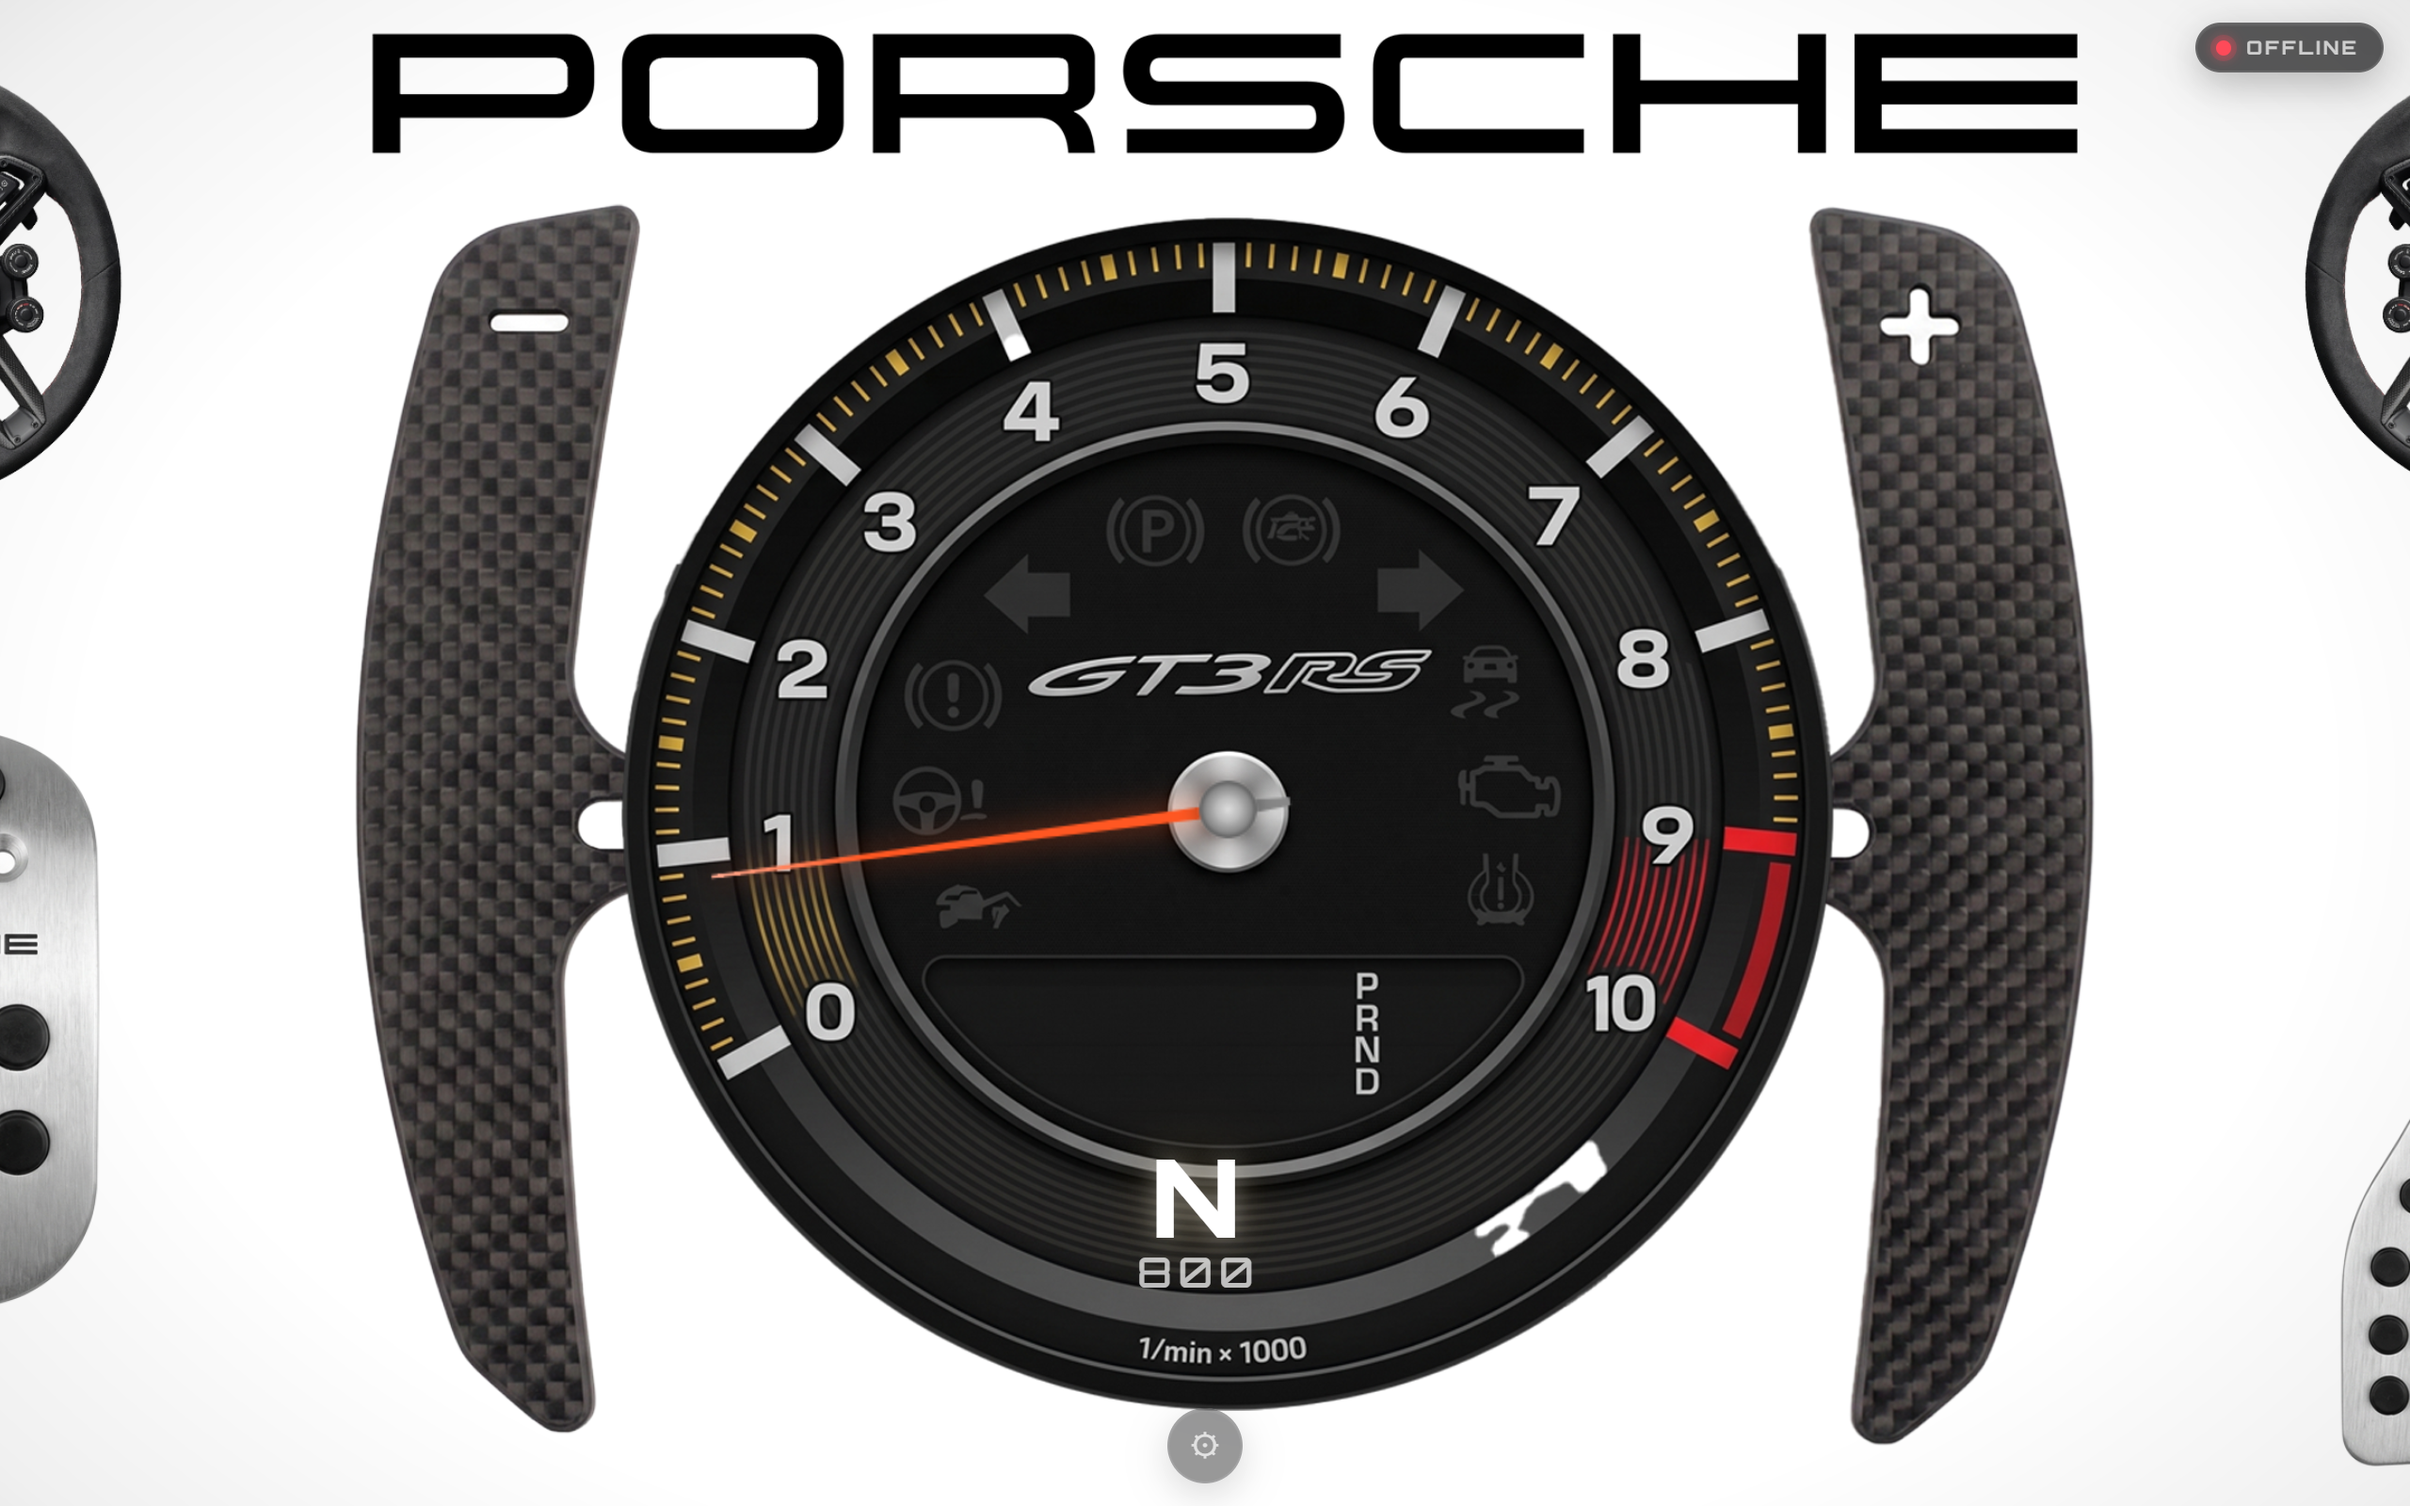
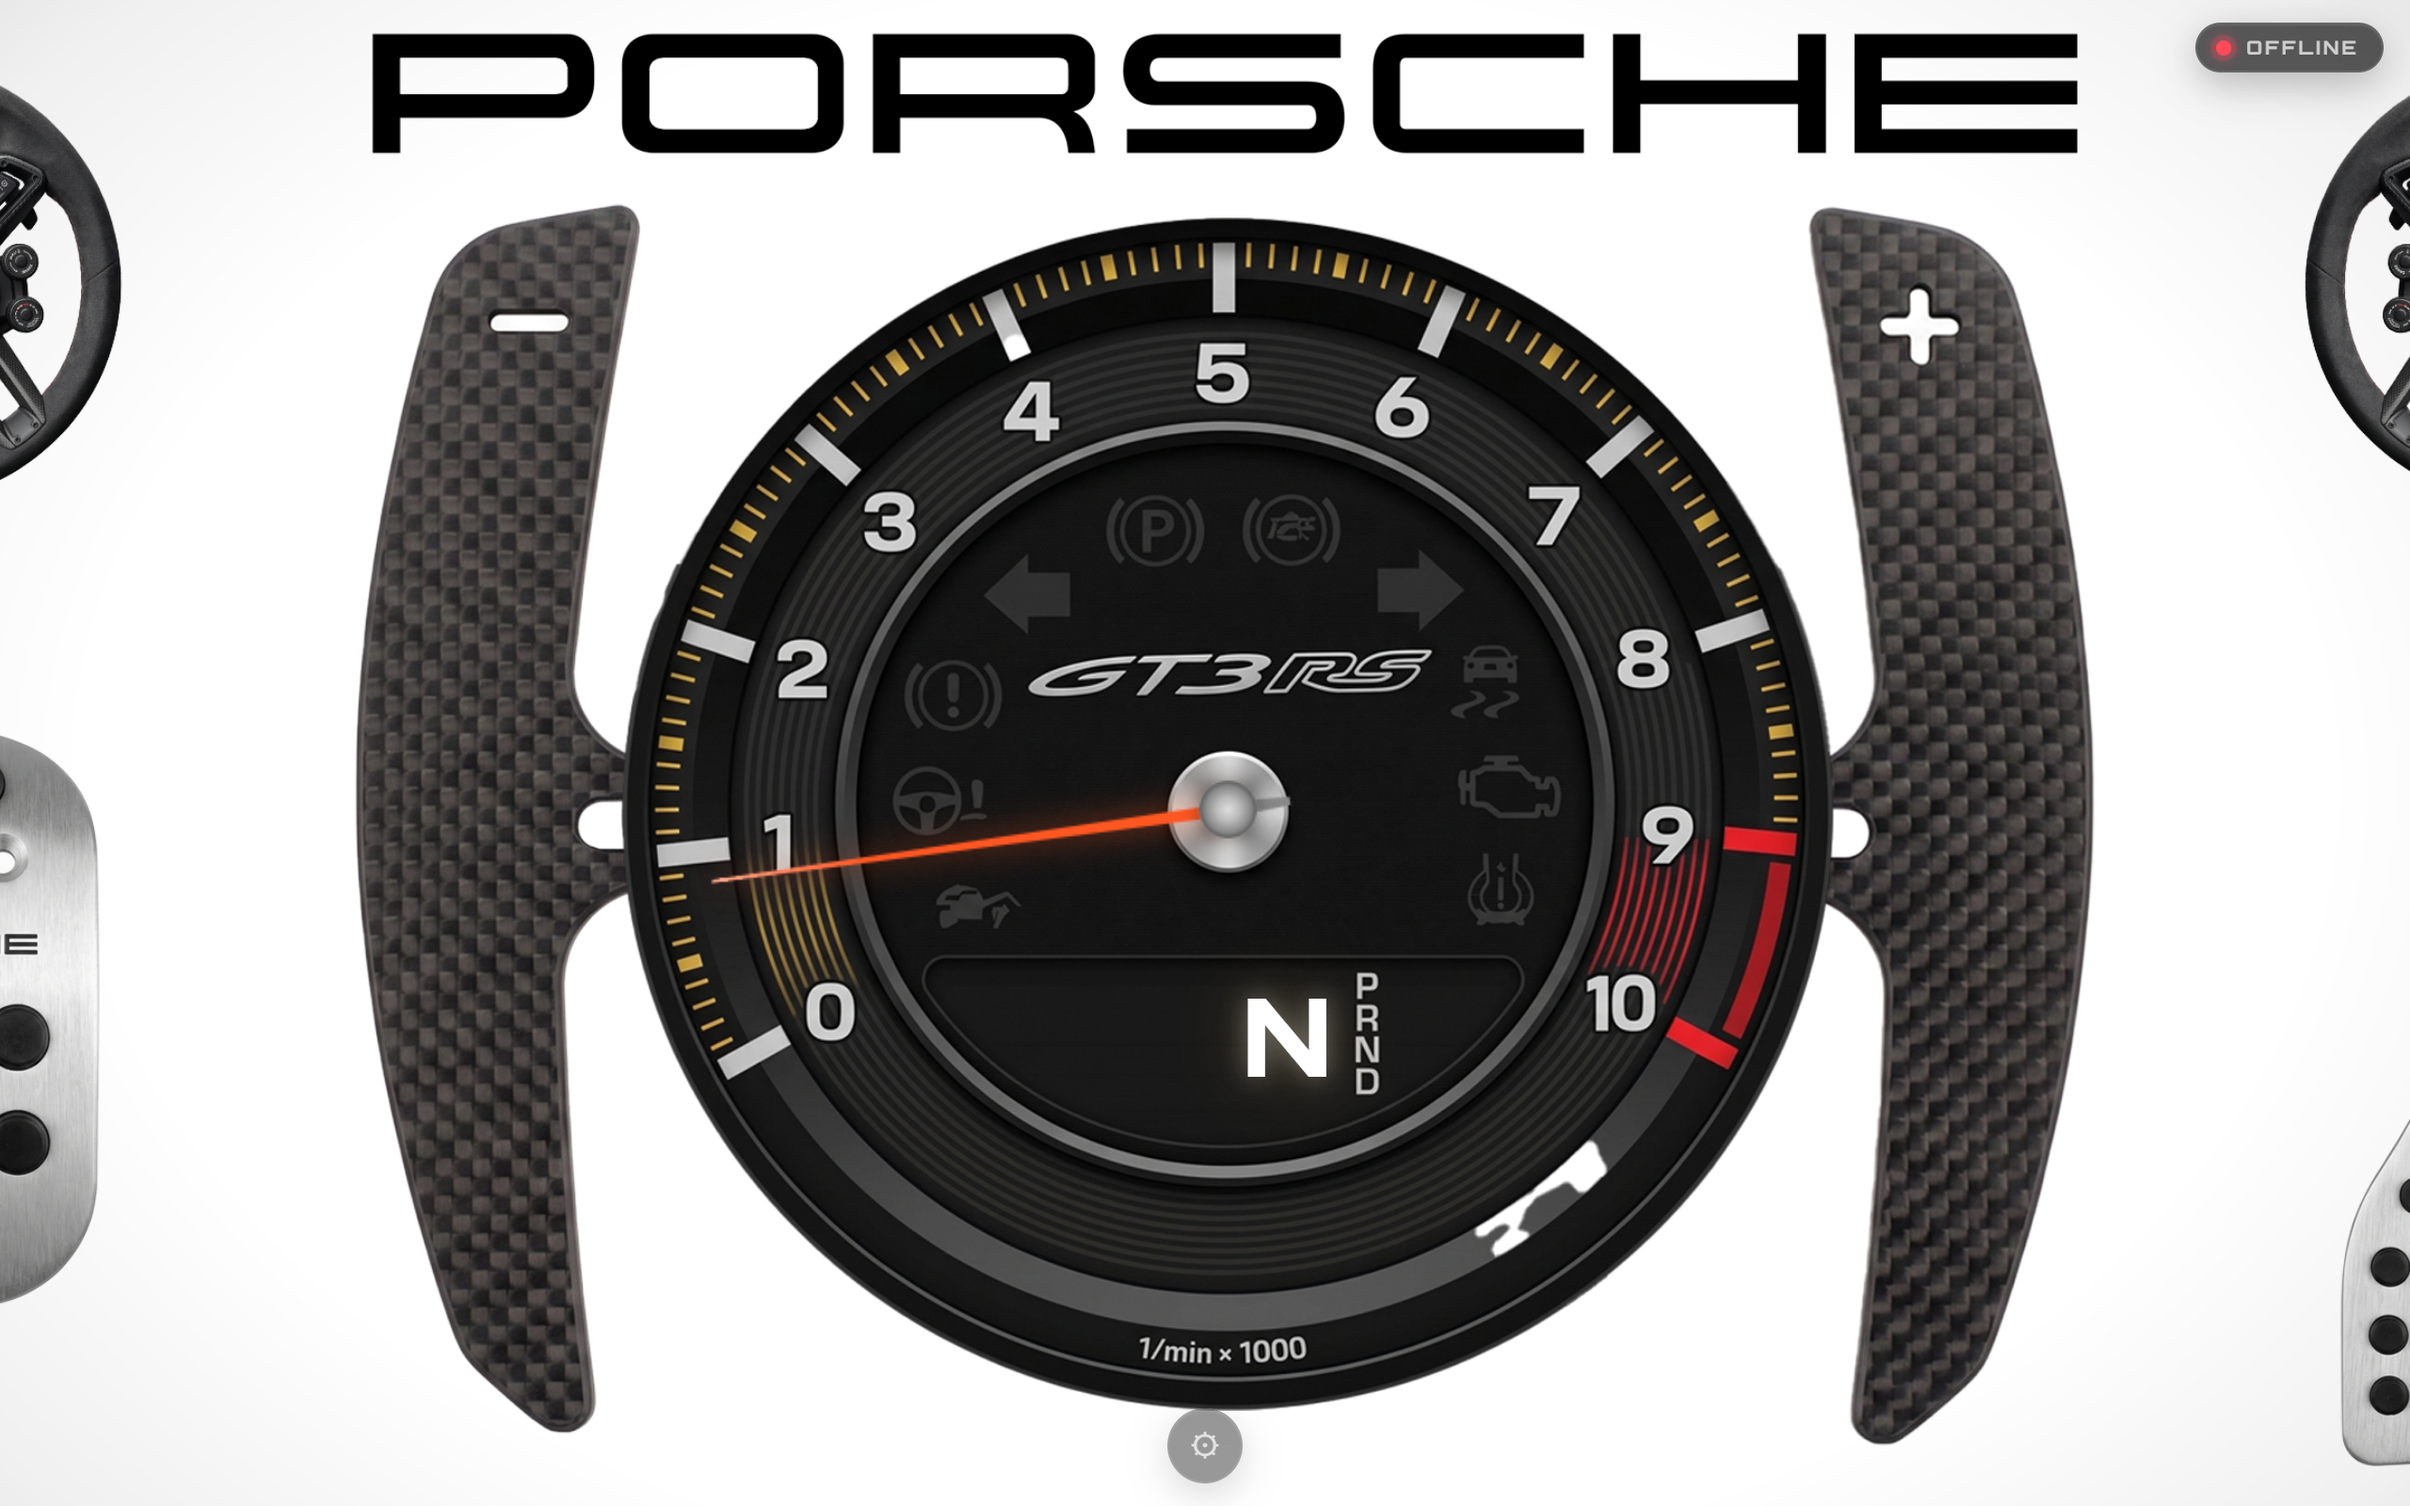
Show the gear on the dial's screen next to PRND, drop the RPM number

diff --git a/app.js b/app.js
@@ -36,13 +36,9 @@
         MAX_RPM: 10000,
         REDLINE_RPM: 9000,
 
-        // ── Gear Display (% of background image) ──
-        GEAR_X_PCT: 49.8,
-        GEAR_Y_PCT: 79.5,
-
-        // ── RPM Readout (% of background image) ──
-        RPM_X_PCT: 49.8,
-        RPM_Y_PCT: 84.5,
+        // ── Gear Display (% of background image): on the dial's screen, left of PRND ──
+        GEAR_X_PCT: 52.6,
+        GEAR_Y_PCT: 68.8,
 
         // ── Steering wheel pictures (px in the 3120×1440 background) ──
         WHEELS: [{ x: 313, y: 269 }, { x: 2822, y: 269 }],
@@ -752,7 +748,6 @@
     class TelemetryDisplay {
         constructor() {
             this.gearEl = document.getElementById('gear-display');
-            this.rpmEl = document.getElementById('rpm-readout');
             this.vignetteEl = document.getElementById('redline-vignette');
             this.currentGear = 'N';
             this._flashTimeout = null;
@@ -772,11 +767,6 @@
             this.gearEl.style.left = gearPos.x + 'px';
             this.gearEl.style.top = gearPos.y + 'px';
             this.gearEl.style.transform = 'translate(-50%, -50%)';
-
-            const rpmPos = imgToViewport(CONFIG.RPM_X_PCT, CONFIG.RPM_Y_PCT);
-            this.rpmEl.style.left = rpmPos.x + 'px';
-            this.rpmEl.style.top = rpmPos.y + 'px';
-            this.rpmEl.style.transform = 'translate(-50%, -50%)';
         }
 
         updateGear(gear) {
@@ -793,10 +783,7 @@
         }
 
         updateRPM(rpm) {
-            const displayRPM = Math.round(rpm / 100) * 100;
-            this.rpmEl.textContent = displayRPM.toLocaleString();
             const inRedline = rpm >= CONFIG.REDLINE_RPM;
-            this.rpmEl.classList.toggle('redline', inRedline);
             this.vignetteEl.classList.toggle('active', inRedline);
         }
     }

diff --git a/styles.css b/styles.css
@@ -166,35 +166,6 @@ html, body {
 }
 
 
-/* ─── Digital RPM Readout ───────────────────────────────────── */
-#rpm-readout {
-    position: absolute;
-    z-index: 15;
-    font-family: var(--font-display);
-    font-weight: 500;
-    font-size: clamp(12px, 1.8vw, 22px);
-    line-height: 1;
-    color: var(--text-secondary);
-    text-align: center;
-    letter-spacing: 0.15em;
-    font-variant-numeric: tabular-nums;   /* digits stop jiggling as RPM changes */
-    white-space: nowrap;
-    transition: color var(--transition-normal);
-    /* Positioned via JavaScript */
-}
-
-#rpm-readout.redline {
-    color: var(--porsche-red);
-    text-shadow: 0 0 10px var(--porsche-red-glow);
-    animation: rpm-pulse 0.3s ease-in-out infinite alternate;
-}
-
-@keyframes rpm-pulse {
-    from { opacity: 0.7; }
-    to   { opacity: 1.0; }
-}
-
-
 /* ─── Redline Vignette ──────────────────────────────────────── */
 #redline-vignette {
     position: absolute;

diff --git a/index.html b/index.html
@@ -30,11 +30,8 @@
         <!-- Tachometer needle — HTML5 Canvas rendered in real-time -->
         <canvas id="needle-canvas"></canvas>
 
-        <!-- Gear indicator HUD — shows N, 1-6, R -->
+        <!-- Gear indicator — shows N, 1-6, R on the dial's screen, left of PRND -->
         <div id="gear-display" aria-live="polite">N</div>
-
-        <!-- Digital RPM readout -->
-        <div id="rpm-readout" aria-live="polite">0</div>
 
         <!-- Redline vignette overlay (hidden until RPM > 9000) -->
         <div id="redline-vignette"></div>
